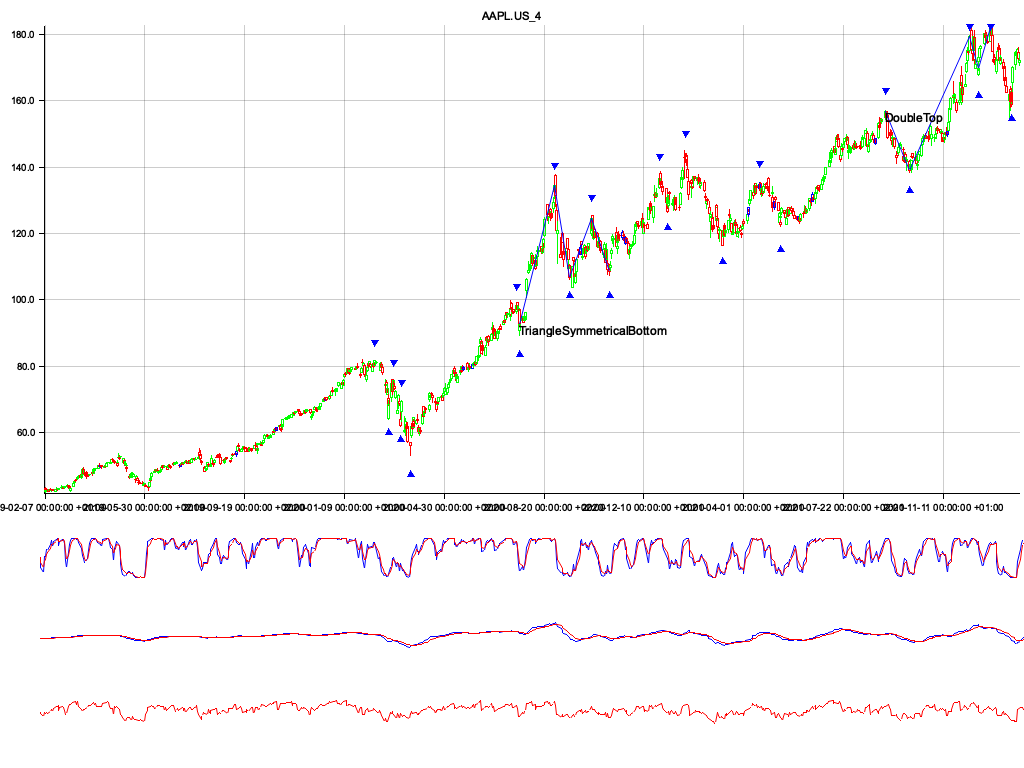
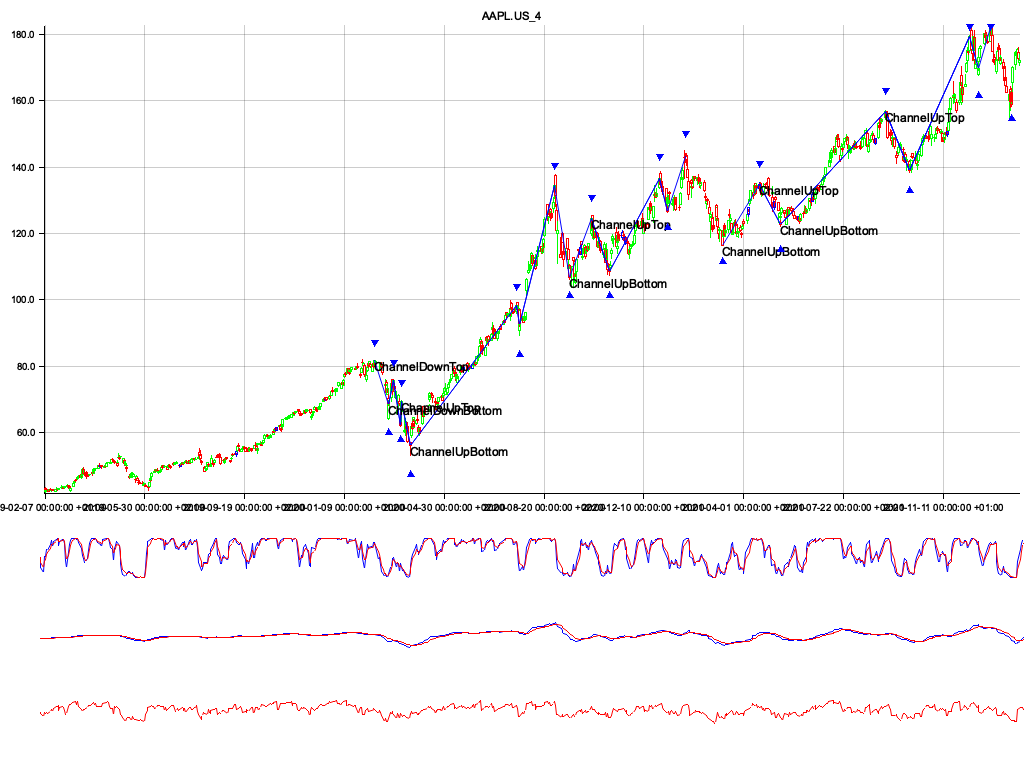
feat: add rectangle and channel detector

diff --git a/src/patterns/pattern.rs b/src/patterns/pattern.rs
@@ -2,28 +2,29 @@ use super::peaks::Peaks;
 use std::env;
 type Point = (usize, f64);
 pub type DataPoints = Vec<Point>;
-use crate::patterns::double;
-use crate::patterns::triangle;
+use crate::patterns::*;
 use std::fmt::{self, Display};
 //TODO use TRAITS
 
 #[derive(Debug, Clone)]
 pub enum PatternType {
     Default,
-    DoubleTop,
     TriangleSymmetricalTop,
     TriangleSymmetricalBottom,
     TriangleDescendantTop,
     TriangleDescendantBottom,
     TriangleAscendantTop,
     TriangleAscendantBottom,
-    DoubleTopActivated,
+    RectangleTop,
+    RectangleBottom,
+    ChannelUpTop,
+    ChannelUpBottom,
+    ChannelDownTop,
+    ChannelDownBottom,
+    BroadeningTop,
+    BroadeningBottom,
     DoubleBottom,
-    DoubleBottomActivated,
-    HeadAndShoulders,
-    HeadAndShouldersActivated,
-    InverseHeadAndShoulders,
-    InverseHeadAndShouldersActivated,
+    DoubleTop,
 }
 
 #[derive(Debug, Clone)]
@@ -32,24 +33,9 @@ pub struct Pattern {
     pub data_points: DataPoints,
 }
 
-// impl Display for PatternType {
-//     fn fmt(&self, err: &mut fmt::Formatter<'_>) -> fmt::Result {
-//         Display::fmt(&self, err)
-//     }
-// }
-
 #[derive(Debug, Clone)]
 pub struct Patterns {
     pub patterns: Vec<Pattern>,
-}
-
-impl Pattern {
-    pub fn new() -> Self {
-        Pattern {
-            pattern_type: PatternType::Default,
-            data_points: vec![],
-        }
-    }
 }
 
 impl Patterns {
@@ -76,12 +62,9 @@ impl Patterns {
             match iter.next() {
                 Some(window) => {
                     let data_points = window.to_vec();
-                    if double::is_top(&data_points, current_price) {
-                        self.set_pattern(&data_points, PatternType::DoubleTop);
-                        //no_pattern = false;
-                    } else if double::is_bottom(&data_points, current_price) {
-                        self.set_pattern(&data_points, PatternType::DoubleBottom);
-                        //no_pattern = false;
+                    if triangle::is_ascendant_top(&data_points, current_price) {
+                        self.set_pattern(&data_points, PatternType::TriangleAscendantTop);
+                        no_pattern = false;
                     } else if triangle::is_ascendant_bottom(&data_points, current_price) {
                         self.set_pattern(&data_points, PatternType::TriangleAscendantBottom);
                         //no_pattern = false;
@@ -96,14 +79,38 @@ impl Patterns {
                         //  no_pattern = false;
                     } else if triangle::is_symmetrical_bottom(&data_points, current_price) {
                         self.set_pattern(&data_points, PatternType::TriangleSymmetricalBottom);
+                    //no_pattern = false;
+                    } else if rectangle::is_renctangle_top(&data_points, current_price) {
+                        self.set_pattern(&data_points, PatternType::RectangleTop);
+                        //no_pattern = false;
+                    } else if rectangle::is_renctangle_bottom(&data_points, current_price) {
+                        self.set_pattern(&data_points, PatternType::RectangleBottom);
+                        // no_pattern = false;
+                    } else if channel::is_ascendant_top(&data_points, current_price) {
+                        self.set_pattern(&data_points, PatternType::ChannelUpTop);
+                    //no_pattern = false;
+                    } else if channel::is_ascendant_bottom(&data_points, current_price) {
+                        self.set_pattern(&data_points, PatternType::ChannelUpBottom);
+                    //no_pattern = false;
+                    } else if channel::is_descendant_top(&data_points, current_price) {
+                        self.set_pattern(&data_points, PatternType::ChannelDownTop);
+                    //no_pattern = false;
+                    } else if channel::is_descendant_bottom(&data_points, current_price) {
+                        self.set_pattern(&data_points, PatternType::ChannelDownBottom);
+                        // no_pattern = false;
+                    } else if broadening::is_top(&data_points, current_price) {
+                        self.set_pattern(&data_points, PatternType::BroadeningTop);
+                        //no_pattern = false;
+                    } else if broadening::is_bottom(&data_points, current_price) {
+                        self.set_pattern(&data_points, PatternType::BroadeningBottom);
+                        //no_pattern = false;
+                    } else if double::is_top(&data_points, current_price) {
+                        self.set_pattern(&data_points, PatternType::DoubleTop);
+                        //no_pattern = false;
+                    } else if double::is_bottom(&data_points, current_price) {
+                        self.set_pattern(&data_points, PatternType::DoubleBottom);
                         //no_pattern = false;
                     }
-                    //self.is_double_bottom(&DataPoints, current_price);
-                    // self.is_broadening_top(&DataPoints, current_price);
-                    // self.is_broadening_bottom(&DataPoints, current_price);
-                    // self.is_descendant_triangle(&DataPoints, current_price);
-                    // self.is_head_and_shoulders(&DataPoints, current_price);
-                    // self.is_inverse_head_anfd_shoulders(&DataPoints, current_price);
                 }
                 None => {
                     no_pattern = false;
@@ -113,48 +120,11 @@ impl Patterns {
     }
 
     fn set_pattern(&mut self, data_points: &DataPoints, pattern_type: PatternType) {
-        // self.pattern_type = pattern_type;
-        // self.data = data_points.to_owned();
-
         self.patterns.push(Pattern {
             pattern_type,
             data_points: data_points.to_owned(),
         });
     }
-
-    // pub fn is_broadening_top(
-    //     &self,
-    //     data: &DataPoints,
-    //     _current_price: &f64,
-    // ) -> Option<(Point, Point, Point)> {
-    //     if data[0] .1 > data[1] .1
-    //         && data[0] .1 < data[2] .1
-    //         && data[2] .1 < data[4] .1
-    //         && data[1] .1 > data[3] .1
-    //     {
-    //         println!("[BROADENING TOP] {:?}", data);
-    //         Some((data[0], data[1], data[2]))
-    //     } else {
-    //         None
-    //     }
-    // }
-
-    // pub fn is_broadening_bottom(
-    //     &self,
-    //     data: &DataPoints,
-    //     _current_price: &f64,
-    // ) -> Option<(Point, Point, Point)> {
-    //     if data[0] .1 < data[1] .1
-    //         && data[0] .1 > data[2] .1
-    //         && data[2] .1 > data[4] .1
-    //         && data[1] .1 < data[3] .1
-    //     {
-    //         println!("[BROADENING BOTTOM] {:?}", data);
-    //         Some((data[0], data[1], data[2]))
-    //     } else {
-    //         None
-    //     }
-    // }
 
     // pub fn is_head_and_shoulders(
     //     &self,

diff --git a/src/patterns/highs_lows.rs b/src/patterns/highs_lows.rs
@@ -1,16 +1,24 @@
 use super::pattern::DataPoints;
 use crate::helpers::comp::*;
 
-pub fn is_lower_highs_top(data: &DataPoints, _current_price: &f64) -> bool {
-    if data[4].1 > data[2].1 && data[2].1 > data[0].1 {
+pub fn is_higher_highs_top(data: &DataPoints, _current_price: &f64) -> bool {
+    if data[4].1 < data[2].1 && data[2].1 < data[0].1 {
         true
     } else {
         false
     }
 }
 
-pub fn is_lower_highs_bottom(data: &DataPoints, _current_price: &f64) -> bool {
-    if data[3].1 > data[1].1 {
+pub fn is_higher_highs_bottom(data: &DataPoints, _current_price: &f64) -> bool {
+    if data[3].1 < data[1].1 && data[3].1 > data[2].1 {
+        true
+    } else {
+        false
+    }
+}
+
+pub fn is_lower_highs_top(data: &DataPoints, _current_price: &f64) -> bool {
+    if data[4].1 > data[2].1 && data[2].1 > data[0].1 {
         true
     } else {
         false
@@ -25,11 +33,35 @@ pub fn is_higher_lows_top(data: &DataPoints, _current_price: &f64) -> bool {
     }
 }
 
+pub fn is_lower_lows_top(data: &DataPoints, _current_price: &f64) -> bool {
+    if data[3].1 > data[1].1 && data[2].1 > data[1].1 {
+        true
+    } else {
+        false
+    }
+}
+
 pub fn is_higher_lows_bottom(data: &DataPoints, _current_price: &f64) -> bool {
     if data[4].1 < data[2].1 && data[2].1 < data[0].1
     // FIXME improve degree of increment
     //&& increase_equally((data[2].1, data[4].1), (data[0].1, data[2].1))
     {
+        true
+    } else {
+        false
+    }
+}
+
+pub fn is_lower_highs_bottom(data: &DataPoints, _current_price: &f64) -> bool {
+    if data[3].1 > data[1].1 {
+        true
+    } else {
+        false
+    }
+}
+
+pub fn is_lower_lows_bottom(data: &DataPoints, _current_price: &f64) -> bool {
+    if data[4].1 > data[2].1 && data[2].1 > data[0].1 {
         true
     } else {
         false

diff --git a/src/patterns/broadening.rs b/src/patterns/broadening.rs
@@ -1,26 +1,16 @@
+use super::highs_lows::*;
 use super::pattern::DataPoints;
-use crate::helpers::comp;
 
-pub fn top(data: &DataPoints, _current_price: &f64) -> bool {
-    if data[4].1 > data[2].1
-        && data[2].1 > data[0].1
-        && data[3].1 < data[1].1
-        && data[2].1 < data[0].1
-    {
-        println!("[DESCENDANT TRIANGLE] {:?}", data);
+pub fn is_top(data: &DataPoints, _current_price: &f64) -> bool {
+    if is_higher_highs_top(data, _current_price) && is_lower_lows_top(data, _current_price) {
         true
     } else {
         false
     }
 }
 
-pub fn bottom(data: &DataPoints, _current_price: &f64) -> bool {
-    if data[4].1 < data[2].1
-        && data[2].1 < data[0].1
-        && data[3].1 > data[1].1
-        && data[2].1 > data[0].1
-    {
-        println!("[DESCENDANT TRIANGLE] {:?}", data);
+pub fn is_bottom(data: &DataPoints, _current_price: &f64) -> bool {
+    if is_higher_highs_bottom(data, _current_price) && is_lower_lows_bottom(data, _current_price) {
         true
     } else {
         false

diff --git a/src/patterns/channel.rs b/src/patterns/channel.rs
@@ -1,0 +1,34 @@
+use super::highs_lows::*;
+use super::pattern::DataPoints;
+
+pub fn is_ascendant_top(data: &DataPoints, _current_price: &f64) -> bool {
+    if is_higher_highs_top(data, _current_price) && is_higher_lows_top(data, _current_price) {
+        true
+    } else {
+        false
+    }
+}
+
+pub fn is_ascendant_bottom(data: &DataPoints, _current_price: &f64) -> bool {
+    if is_higher_highs_bottom(data, _current_price) && is_higher_lows_bottom(data, _current_price) {
+        true
+    } else {
+        false
+    }
+}
+
+pub fn is_descendant_top(data: &DataPoints, _current_price: &f64) -> bool {
+    if is_lower_highs_top(data, _current_price) && is_lower_lows_top(data, _current_price) {
+        true
+    } else {
+        false
+    }
+}
+
+pub fn is_descendant_bottom(data: &DataPoints, _current_price: &f64) -> bool {
+    if is_lower_highs_bottom(data, _current_price) && is_lower_lows_bottom(data, _current_price) {
+        true
+    } else {
+        false
+    }
+}

diff --git a/src/patterns/rectangle.rs b/src/patterns/rectangle.rs
@@ -1,0 +1,24 @@
+use super::highs_lows::*;
+use super::pattern::DataPoints;
+
+pub fn is_renctangle_top(data: &DataPoints, _current_price: &f64) -> bool {
+    if upper_band_is_equal_top(data, _current_price)
+        && lower_band_is_equal_top(data, _current_price)
+    {
+        println!("[RECTANGLE TOP] {:?}", data);
+        true
+    } else {
+        false
+    }
+}
+
+pub fn is_renctangle_bottom(data: &DataPoints, _current_price: &f64) -> bool {
+    if upper_band_is_equal_bottom(data, _current_price)
+        && lower_band_is_equal_bottom(data, _current_price)
+    {
+        println!("[RECTANGLE BOTTOM] {:?}", data);
+        true
+    } else {
+        false
+    }
+}

diff --git a/src/backend.rs b/src/backend.rs
@@ -57,7 +57,7 @@ impl Backend {
         let macd_b = macd.data_b();
 
         let root = BitMapBackend::new(&output_file, (1024, 768)).into_drawing_area();
-        let (upper, lower) = root.split_vertically((70).percent());
+        let (upper, lower) = root.split_vertically((75).percent());
         let (lower_2, lower_1) = lower.split_vertically((70).percent());
         let (indicator_1, indicator_2) = lower_2.split_vertically((50).percent());
 

diff --git a/src/patterns/mod.rs b/src/patterns/mod.rs
@@ -1,8 +1,10 @@
 pub mod broadening;
+pub mod channel;
 pub mod double;
 pub mod highs_lows;
 pub mod horizontal_levels;
 pub mod pattern;
 pub mod peaks;
+pub mod rectangle;
 pub mod triangle;
 pub mod upper_channel;

diff --git a/src/main.rs b/src/main.rs
@@ -18,7 +18,7 @@ mod instrument;
 mod patterns;
 mod screener;
 
-const TICKER: &str = "TTD.US_4";
+const TICKER: &str = "NFLX.US_4";
 
 #[tokio::main]
 async fn main() -> Result<()> {
